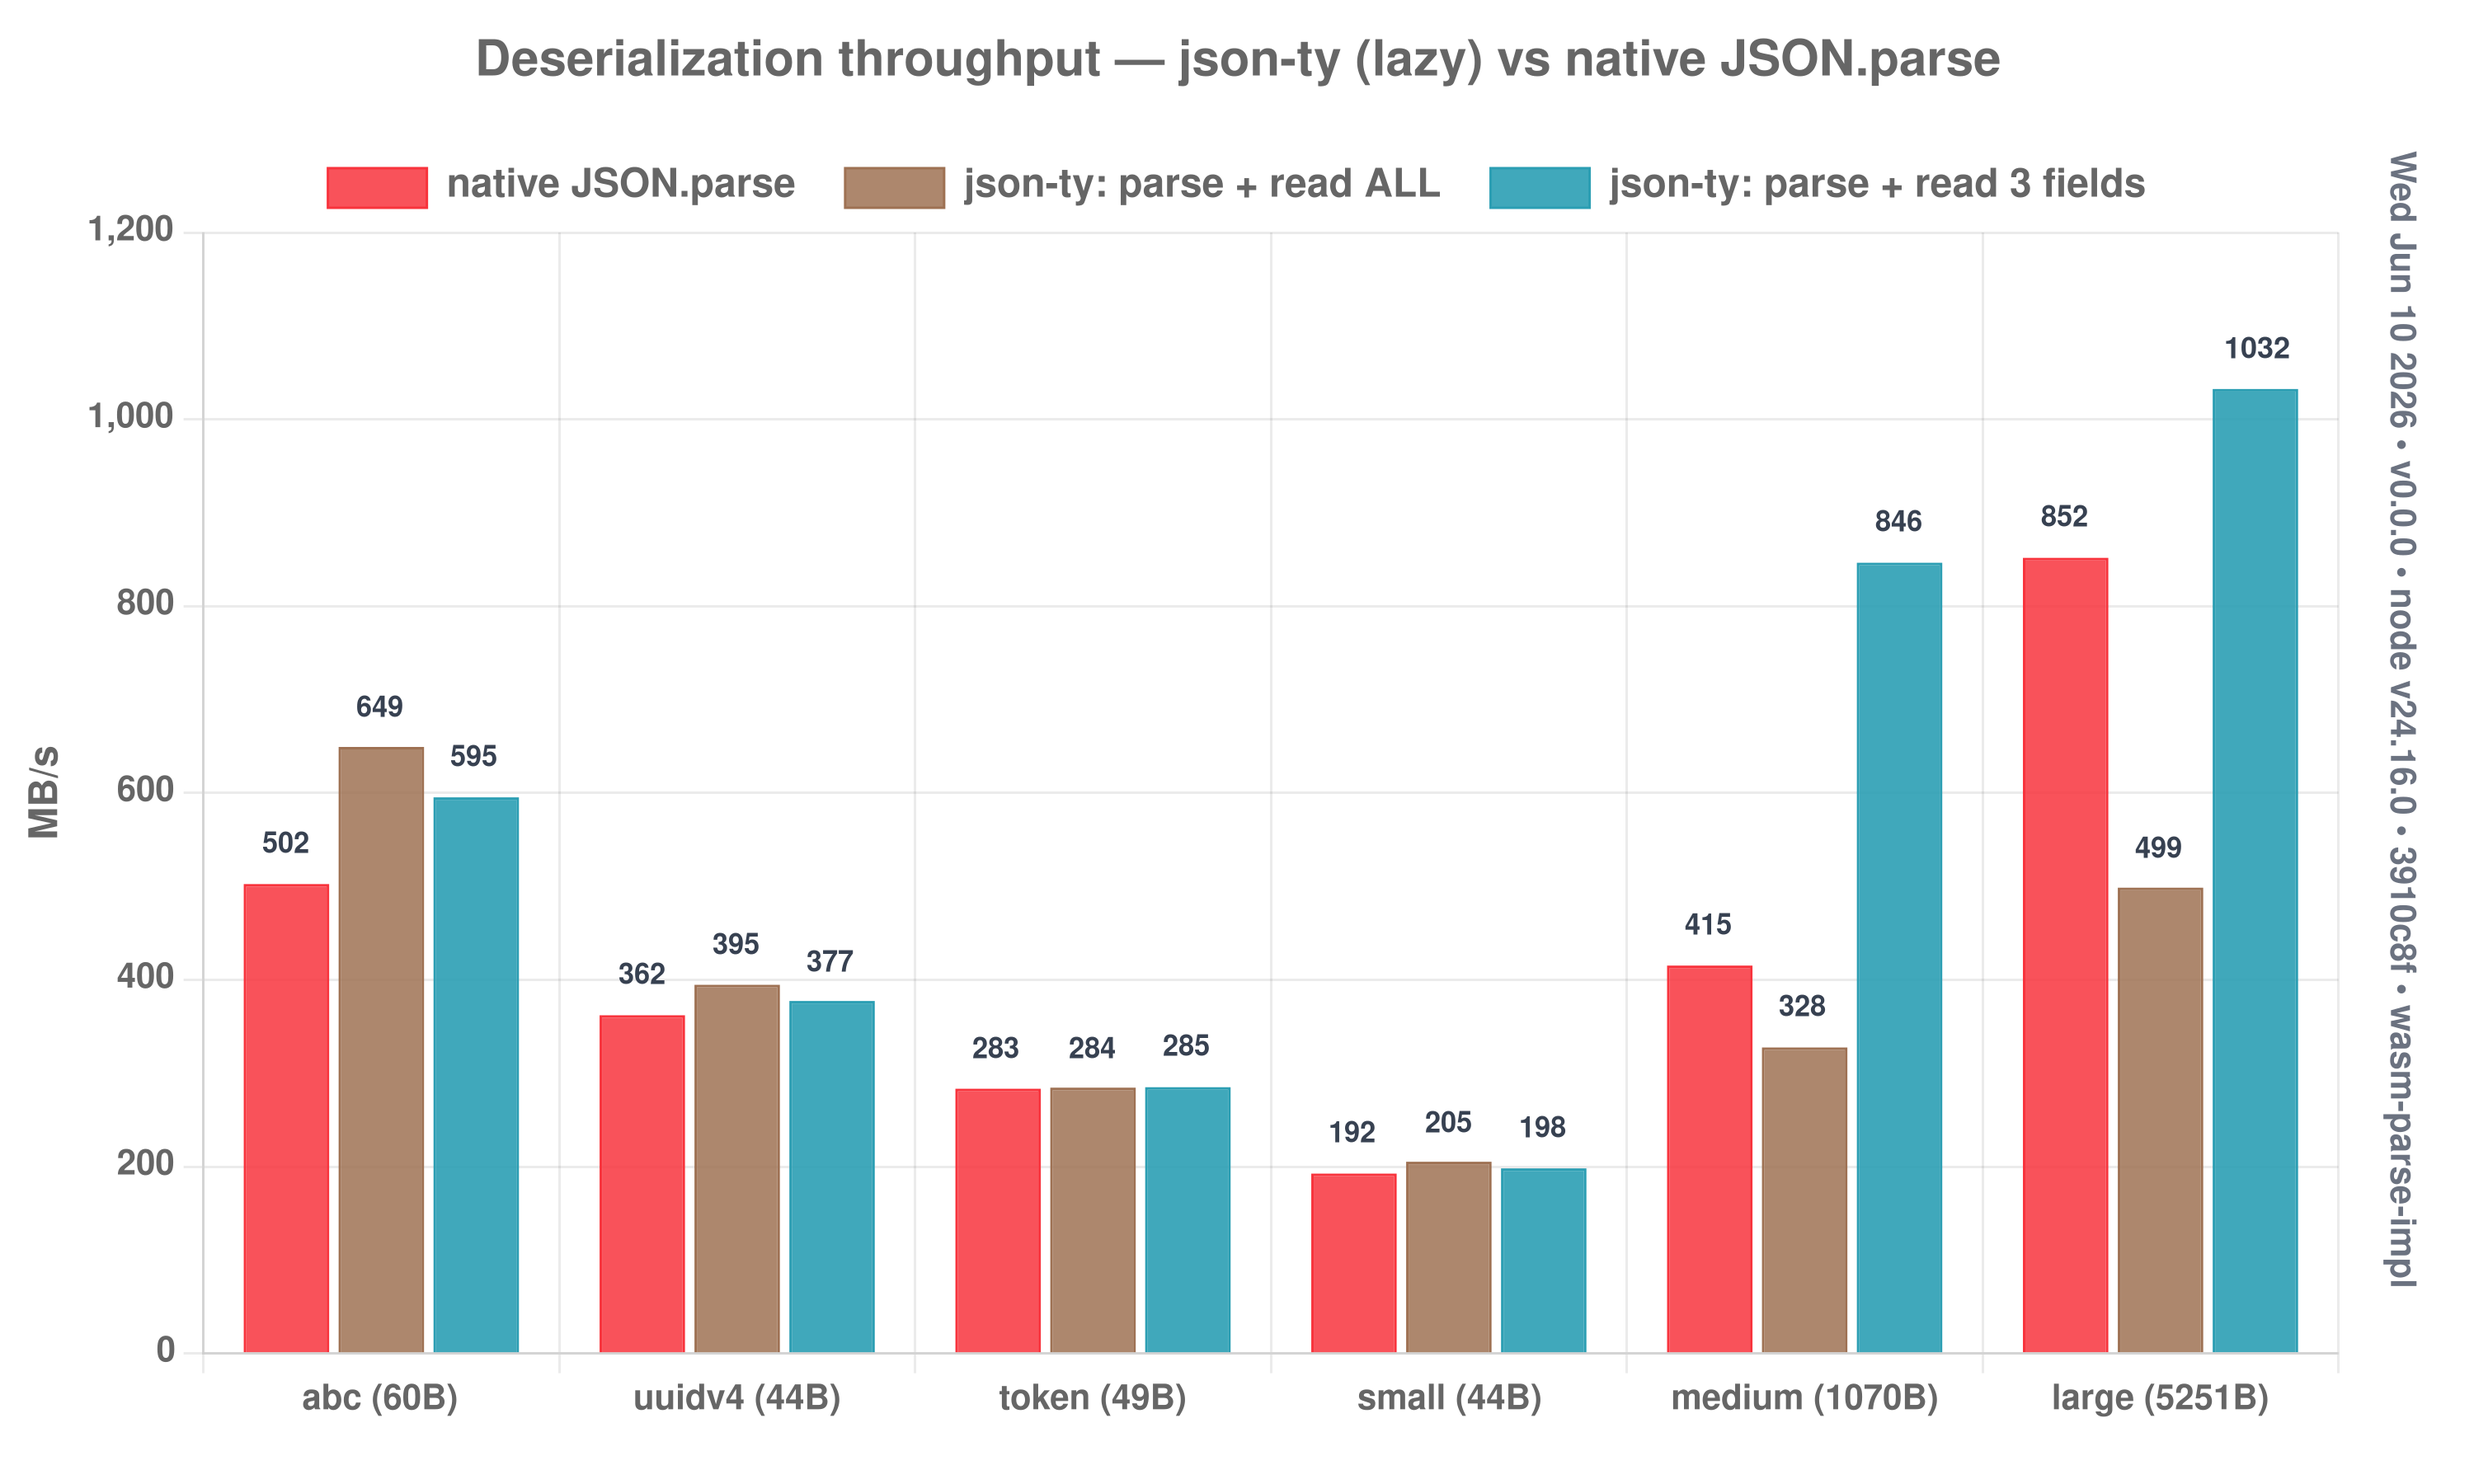
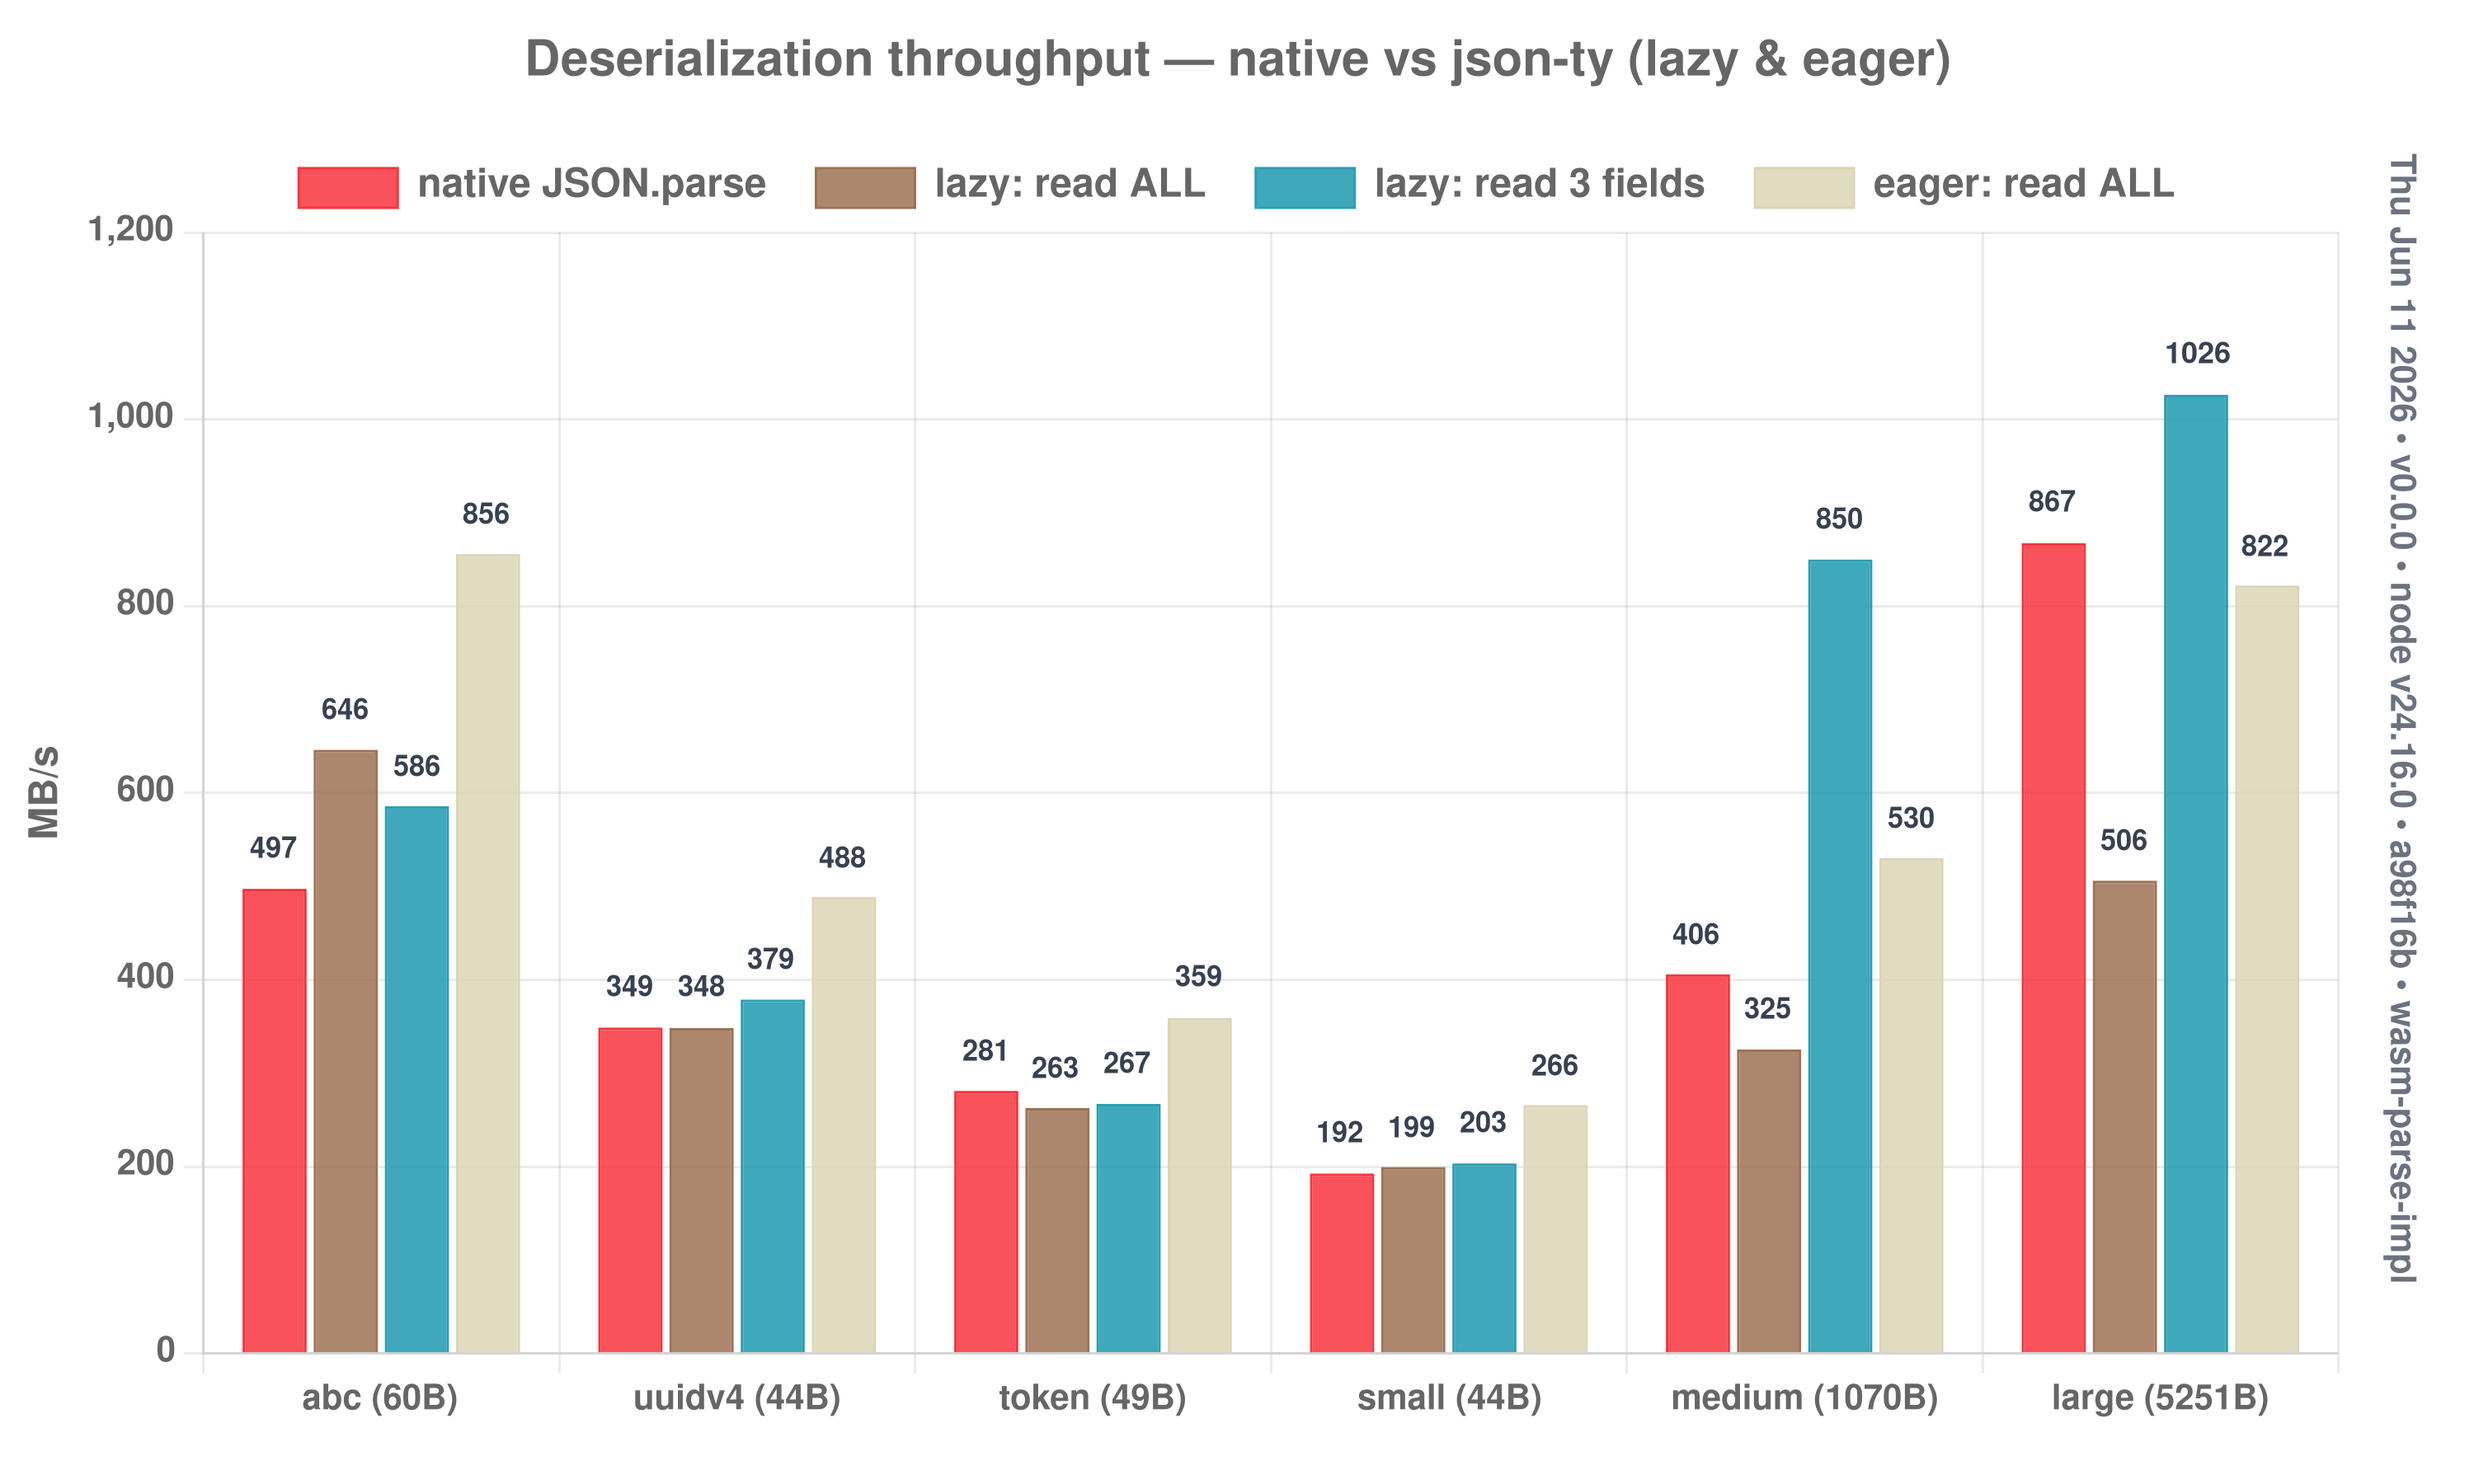
Deserialize bench: add all-eager engine as a 4th bar
Re-ran abc/uuid/token/small/medium/large with the eager engine (eager parse +
read ALL via the @eager view) alongside native, lazy-full, and lazy-3.

- bench.mjs: autoEagerView (recursive makeEagerView) + eager full-read series,
  correctness-gated vs native.
- eager-rt.js: makeEagerView now caches the row's f64/u32 base index at view
  construction, so each getter is a single typed-array read (no per-access tM
  recompute). Lifts the eager view's full-read across the board.
- chart.mjs/README: 4th bar "eager: read ALL".

Result (MB/s, x vs native): eager beats lazy-full on every payload and native on
5/6 — abc 1.72x, uuid 1.40x, token 1.28x, small 1.38x, medium 1.31x; large 0.95x
(~par; the dynamic o[name] full-read access is the gap vs the raw index reader's
1.3x). lazy-3 still the partial-access champ (medium 2.09x).

diff --git a/src/wasm/eager-rt.js b/src/wasm/eager-rt.js
@@ -39,42 +39,44 @@ function writeInput(input) {
 }
 
 // table = [count u32][M u32] then count*M 8-byte slots
-const tcount = (region) => u32[region >>> 2];
-const tM = (region) => u32[(region >>> 2) + 1];
-function numAt(region, row, f) { return f64[((region + 8) >>> 3) + row * tM(region) + f]; }
-function boolAt(region, row, f) { return f64[((region + 8) >>> 3) + row * tM(region) + f] !== 0; }
-function ptrAt(region, row, f) { return u32[((region + 8) >>> 2) + (row * tM(region) + f) * 2]; }
-function strAt(region, row, f) {
-  const i = ((region + 8) >>> 2) + (row * tM(region) + f) * 2;
-  const off = u32[i], len = u32[i + 1];
+function readStrAt(j) {
+  const off = u32[j], len = u32[j + 1];
   return asciiSource !== null ? asciiSource.slice(off, off + len) : nbuf.toString("utf8", SRC + off, SRC + off + len);
 }
 
 // Build an eager view class from the same {prop:[kind,idx,child?]} field spec
-// the transform emits for the lazy makeView.
+// the transform emits for the lazy makeView. The view caches its row base
+// (f64/u32 indices) at construction, so getters are a single typed-array read.
 const EVIEWS = {};
 export function makeEagerView(keys, childSids, fields, name) {
   const sid = registerSchema(keys, childSids);
-  class V { constructor(region, row = 0) { this._r = region; this._row = row; } }
+  class V {
+    constructor(region, row = 0) {
+      const M = u32[(region >>> 2) + 1];
+      this._fb = ((region + 8) >>> 3) + row * M; // f64 base index of this row
+      this._ub = ((region + 8) >>> 2) + row * M * 2; // u32 base index of this row
+    }
+  }
   V.__sid = sid;
   for (const prop in fields) {
     const [kind, i, child] = fields[prop];
     let get;
     switch (kind) {
-      case "num": get = function () { return numAt(this._r, this._row, i); }; break;
-      case "bool": get = function () { return boolAt(this._r, this._row, i); }; break;
-      case "str": get = function () { return strAt(this._r, this._row, i); }; break;
-      case "child": get = function () { const p = ptrAt(this._r, this._row, i); return p ? new EVIEWS[child](p, 0) : null; }; break;
-      case "structArray": get = function () { const p = ptrAt(this._r, this._row, i); const n = tcount(p), C = EVIEWS[child], o = new Array(n); for (let k = 0; k < n; k++) o[k] = new C(p, k); return o; }; break;
-      case "numArray": get = function () { const p = ptrAt(this._r, this._row, i); const n = tcount(p), o = new Array(n); for (let k = 0; k < n; k++) o[k] = numAt(p, k, 0); return o; }; break;
-      case "strArray": get = function () { const p = ptrAt(this._r, this._row, i); const n = tcount(p), o = new Array(n); for (let k = 0; k < n; k++) o[k] = strAt(p, k, 0); return o; }; break;
-      default: get = function () { return strAt(this._r, this._row, i); };
+      case "num": get = function () { return f64[this._fb + i]; }; break;
+      case "bool": get = function () { return f64[this._fb + i] !== 0; }; break;
+      case "str": get = function () { return readStrAt(this._ub + i * 2); }; break;
+      case "child": get = function () { const p = u32[this._ub + i * 2]; return p ? new EVIEWS[child](p, 0) : null; }; break;
+      case "structArray": get = function () { const p = u32[this._ub + i * 2], n = u32[p >>> 2], C = EVIEWS[child], o = new Array(n); for (let k = 0; k < n; k++) o[k] = new C(p, k); return o; }; break;
+      case "numArray": get = function () { const p = u32[this._ub + i * 2], n = u32[p >>> 2], fb = (p + 8) >>> 3, o = new Array(n); for (let k = 0; k < n; k++) o[k] = f64[fb + k]; return o; }; break;
+      case "strArray": get = function () { const p = u32[this._ub + i * 2], n = u32[p >>> 2], ub = (p + 8) >>> 2, o = new Array(n); for (let k = 0; k < n; k++) o[k] = readStrAt(ub + k * 2); return o; }; break;
+      default: get = function () { return readStrAt(this._ub + i * 2); };
     }
     Object.defineProperty(V.prototype, prop, { get, enumerable: true });
   }
   EVIEWS[name] = V;
   return V;
 }
+const tcount = (region) => u32[region >>> 2];
 
 // JSON.parse<T> (eager): one record table -> a view at row 0.
 export function parseEager(sid, Ctor, input) { return new Ctor(ex.parseEagerObject(sid, writeInput(input)) >>> 0, 0); }

diff --git a/experiments/deserialize/README.md b/experiments/deserialize/README.md
@@ -15,28 +15,31 @@ node experiments/deserialize/chart.mjs   # -> deserialize.png
 
 ![deserialize](./deserialize.png)
 
-| payload | bytes | native | json-ty: read ALL | json-ty: read 3 |
-|---------|------:|-------:|------------------:|----------------:|
-| abc     | 60    | 502    | 649 (1.29×)       | 595 (1.18×)     |
-| uuidv4  | 44    | 362    | 395 (1.09×)       | 377 (1.04×)     |
-| token   | 49    | 283    | 284 (1.00×)       | 285 (1.01×)     |
-| small   | 44    | 192    | 205 (1.07×)       | 198 (1.03×)     |
-| medium  | 1070  | 415    | 328 (0.79×)       | **846 (2.04×)** |
-| large   | 5251  | 852    | 499 (0.59×)       | **1032 (1.21×)**|
+| payload | bytes | native | lazy: read ALL | lazy: read 3 | **eager: read ALL** |
+|---------|------:|-------:|---------------:|-------------:|--------------------:|
+| abc     | 60    | 497    | 646 (1.30×)    | 586 (1.18×)  | **856 (1.72×)**     |
+| uuidv4  | 44    | 349    | 348 (1.00×)    | 379 (1.09×)  | **488 (1.40×)**     |
+| token   | 49    | 281    | 263 (0.93×)    | 267 (0.95×)  | **359 (1.28×)**     |
+| small   | 44    | 192    | 199 (1.04×)    | 203 (1.06×)  | **266 (1.38×)**     |
+| medium  | 1070  | 406    | 325 (0.80×)    | 850 (2.09×)  | **530 (1.31×)**     |
+| large   | 5251  | 867    | 506 (0.58×)    | **1026 (1.18×)** | 822 (0.95×)     |
 
 ## Reading the chart (honestly)
 
 - **`native` is flat** — `JSON.parse` always materializes the whole document.
-- **`read ALL` is json-ty's worst case.** Forcing materialization of every field
-  (large is ~80 mostly-URL strings) means lazy-parse + N string slices loses to
-  native's single C++ pass on big docs (0.59× at 5 KB). Small docs still tie/win
-  (parse overhead is tiny relative to per-call cost).
-- **`read 3` is the design target** and where it pays off: medium **2.04×**,
-  large **1.21×** — you skip the dozens of fields native eagerly parses.
+- **lazy `read ALL` is the worst case** — materializing every field (large is ~80
+  mostly-URL strings) loses to native's single C++ pass on big docs (0.58×).
+- **lazy `read 3` is the partial-access design target** — medium **2.09×**, large
+  **1.18×**: skip the fields native eagerly parses.
+- **`eager: read ALL` is the full-deserialize answer** — flat pointer-linked
+  tables, no per-field `decodeSlot`/`Map`. It beats lazy-full on *every* payload
+  and native on 5 of 6 (1.3–1.7×); on `large` it's ~par (0.95×) because this
+  bench reads via dynamic `o[name]` getter access — the raw index reader hits
+  1.3× (see `../eager-parse`).
 
-The crossover *is* the thesis: native's cost is fixed by the document; json-ty's
-scales with what you read. Full deserialize of a large string-heavy object is the
-one case to reach for `@eager`/native; everything partial favors json-ty.
+Net: **lazy** for partial access, **eager** for full deserialize. Both via
+`JSON.parse<T>` (`@json` vs `@json({ eager: true })`); native only stays ahead on
+a wide, string-heavy doc read in full.
 
 A real per-field-access cost worth noting: each getter currently builds a small
 `{tag,off,len,ptr}` object in `decodeSlot` + a memo `Map` — measurable on the
